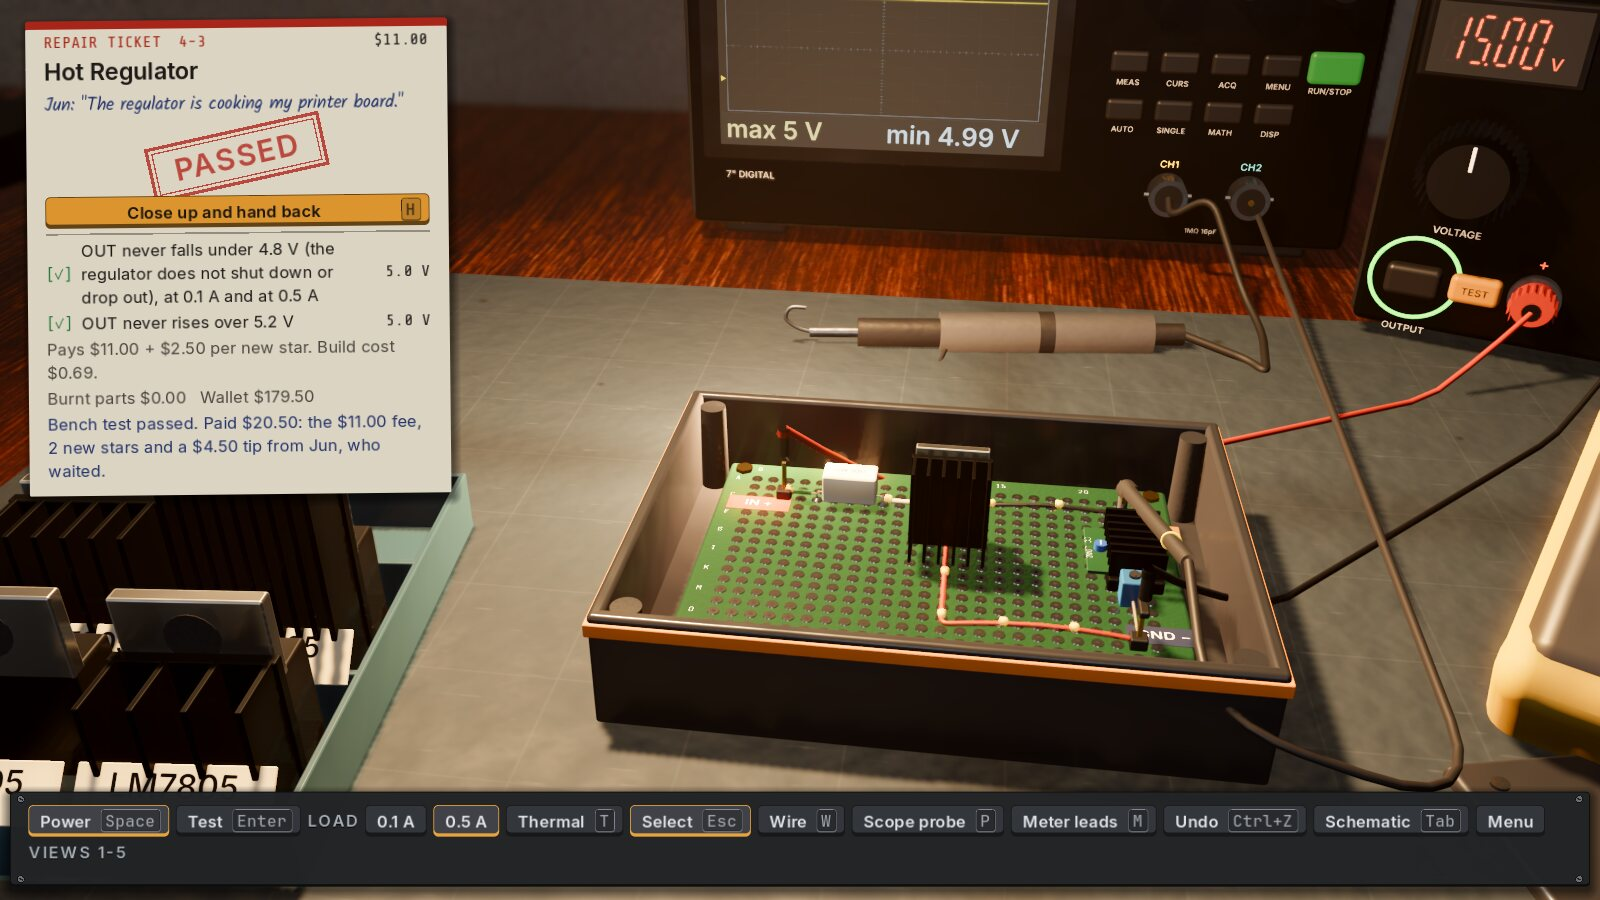
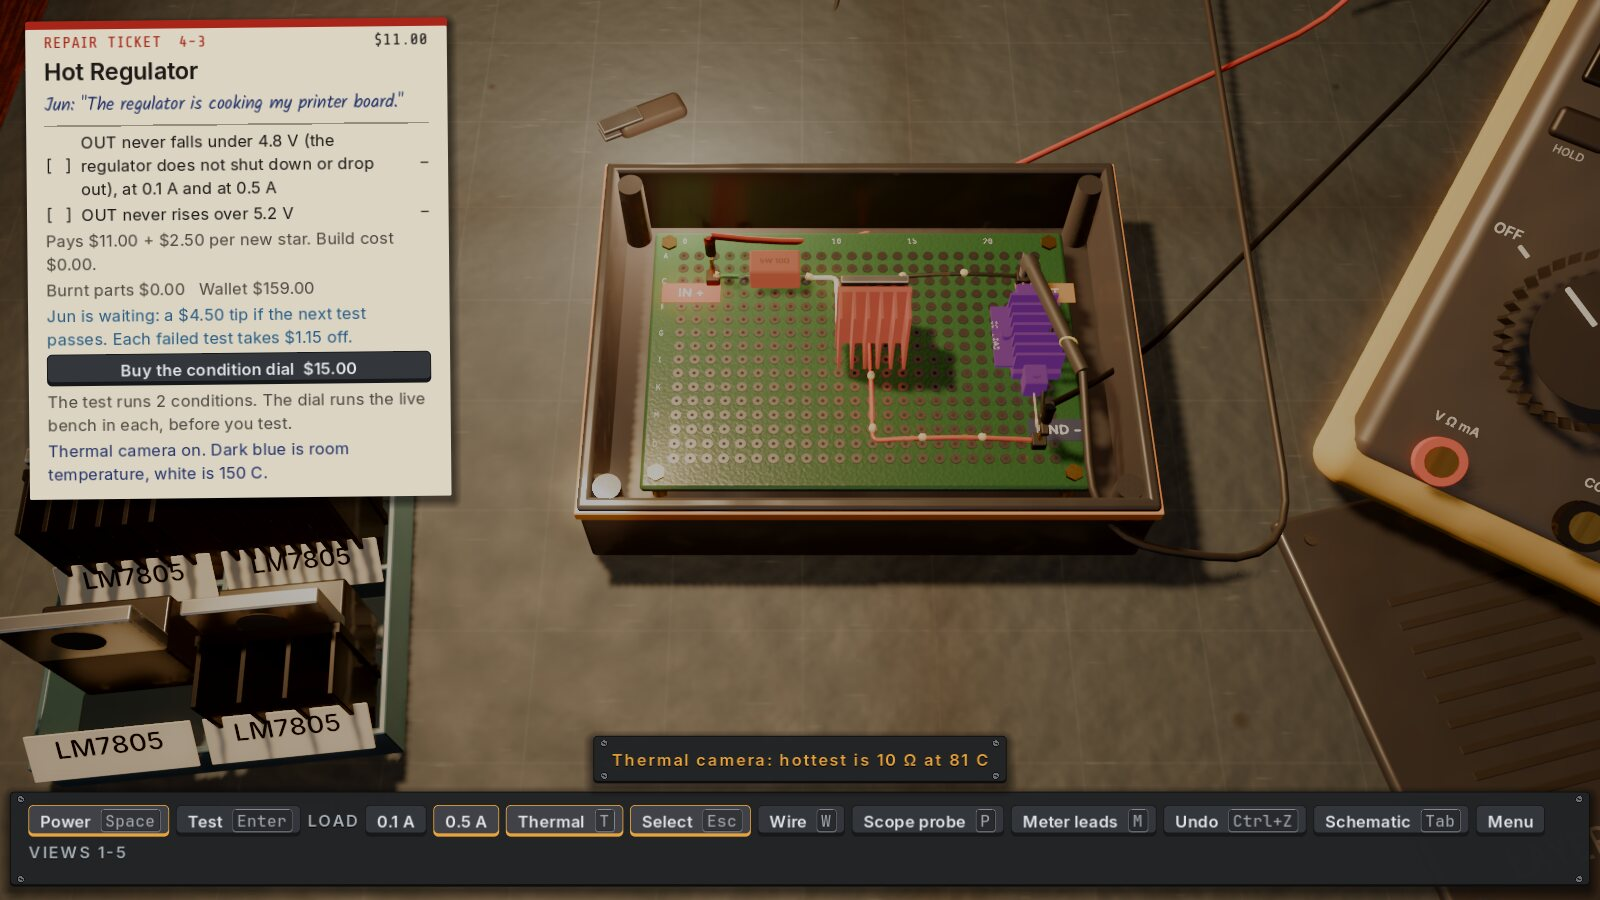
Thermal still was false (Sigrid): the README's 4-3 'thermal camera' shot showed the normal bench, and the OG image was cut from it. The CB_THERMAL shot hook does not leave the camera on; open, not fixed. Reshot through the T key's path (CB_DEMO=thermal43): the camera on, the hottest part at 81 C. Ca
Claude-Session: https://claude.ai/code/session_01LLtMdbo6QrqLGE18L1gpTt

diff --git a/site/index.html b/site/index.html
@@ -14,7 +14,7 @@
 <meta property="og:image" content="https://circuits.blackmetal.tech/assets/og.jpg">
 <meta property="og:image:width" content="1200">
 <meta property="og:image:height" content="630">
-<meta property="og:image:alt" content="The CIRCUITS workbench with the thermal camera on a hot regulator">
+<meta property="og:image:alt" content="The CIRCUITS workbench: a camera flash fixed and passed, the scope showing the charging curve">
 <meta property="og:url" content="https://circuits.blackmetal.tech/">
 <meta name="twitter:card" content="summary_large_image">
 <meta name="twitter:image" content="https://circuits.blackmetal.tech/assets/og.jpg">

diff --git a/README.md b/README.md
@@ -11,7 +11,7 @@ Customers bring broken devices to your bench. Open them, measure them, swap the 
 | | |
 |---|---|
 | ![](docs/readme/wb-flash-3-1.jpg)<br>**3-1 Flash timer, fixed.** The scope shows the charge curve crossing 63 % at one second. | ![](docs/readme/wb-testbed-dimmer.gif)<br>**Testbed: lamp dimmer.** Turn the knob and the strip current climbs from 0 mA. |
-| ![](docs/readme/wb-wallwart-4-1.jpg)<br>**4-1 Wall wart.** Simulated mains behind an isolation transformer. The safety card comes first. | ![](docs/readme/wb-thermal-4-3.jpg)<br>**4-3 Hot regulator.** The thermal camera: the 7805 at 87 C, the spare at room temperature. |
+| ![](docs/readme/wb-wallwart-4-1.jpg)<br>**4-1 Wall wart.** Simulated mains behind an isolation transformer. The safety card comes first. | ![](docs/readme/wb-thermal-4-3.jpg)<br>**4-3 Hot regulator.** The thermal camera on: the regulator and the load glow warm, the spare stays cool. Hottest part: 81 C. |
 | ![](docs/readme/wb-strip-5-2.jpg)<br>**5-2 3.3 V gate.** A logic-level MOSFET drives the 12 V strip from a 3.3 V pin. | ![](docs/readme/wb-igpu-low-5-1.jpg)<br>**Low tier on an integrated GPU.** 5-1 averages 17 ms a frame on a Radeon iGPU. |
 | ![](docs/readme/wb-swap-3-1.gif)<br>**3-1 Flash timer.** It arrives with a 22 µF capacitor. The wheel steps it to 100 µF, and it passes. | ![](docs/readme/wb-testbed-fan.gif)<br>**Testbed.** Pull the fan driver's flyback diode. The coil kicks to 2000 V and the transistor dies. |
 | ![](docs/readme/wb-relay-3-3.jpg)<br>**3-3 Relay pull-in.** The relay never clicks. The customer is waiting, and a first-test fix earns a tip. | ![](docs/readme/wb-cable-2-2.jpg)<br>**2-2 Cable fault.** Slide the jockey until the needle sits on zero. |
